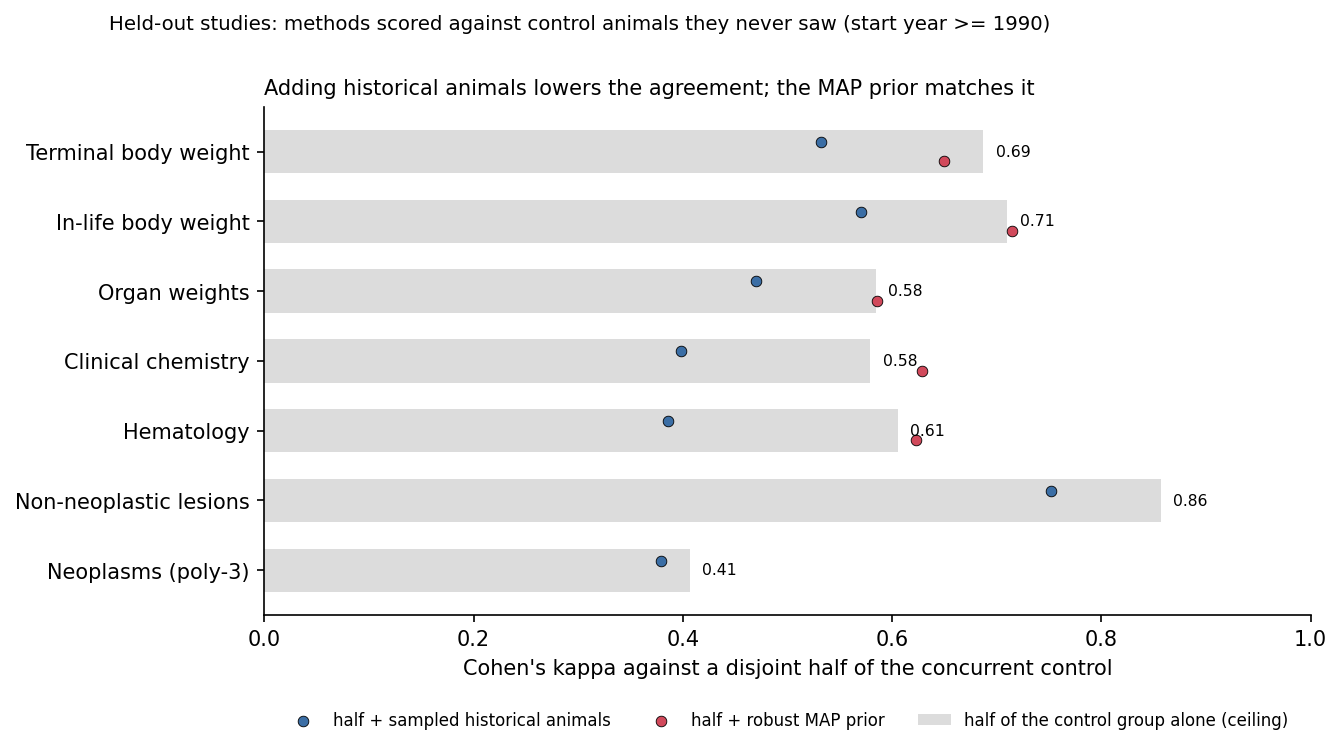
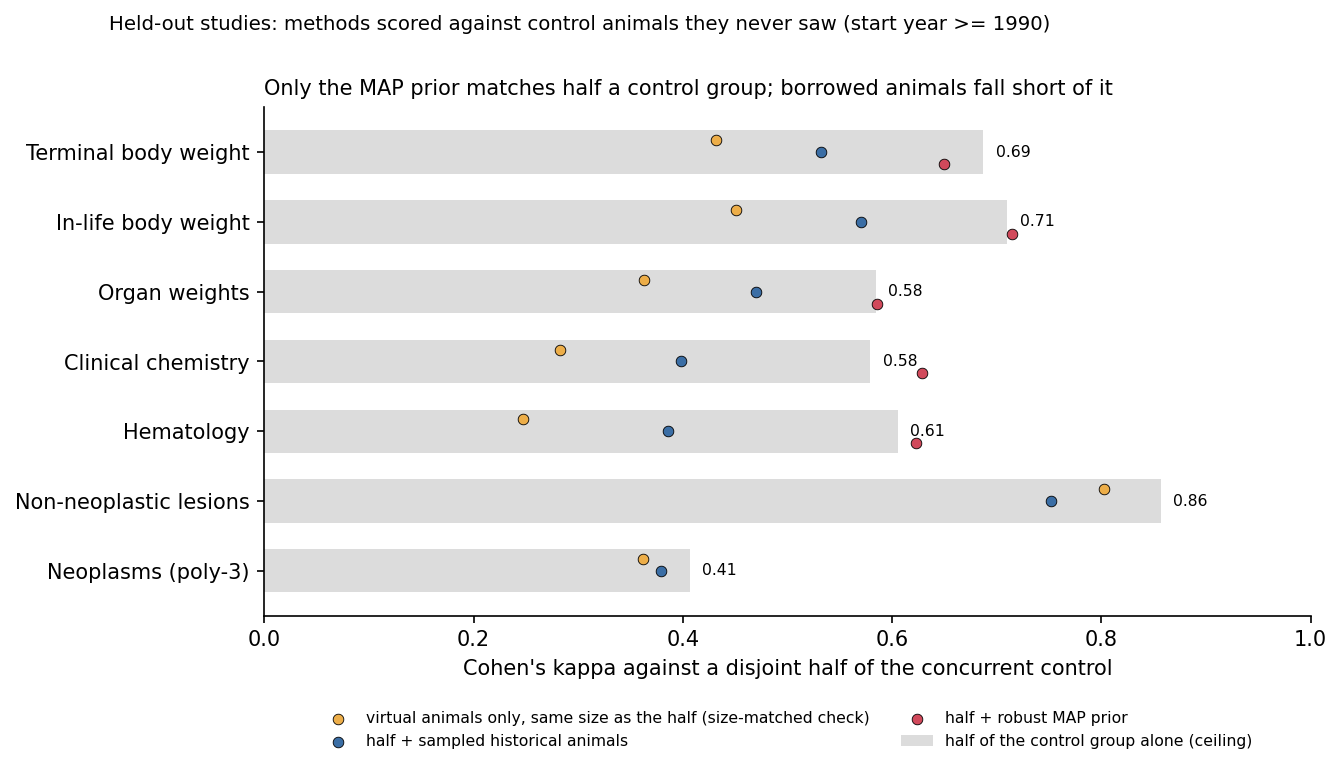
add the size-matched sensitivity analysis and state the contributions
the sensitivity analysis draws a virtual control group of n/2 animals and
scores it against the disjoint half, so the virtual group and the ceiling
have the same size and reference. per domain the share of ceiling moves by
a few points at most, so the size mismatch was not distorting the primary
result, and the full-size vcg stays primary because that is what the
literature evaluates.

the contributions section claims the application of the split-half ceiling
to vcgs, not the method, which is spearman and brown 1910 and the noise
ceiling from computational neuroscience, and credits the variance
decomposition to the iwgt report. readers are asked to open an issue if
prior use in this field exists.

diff --git a/src/vcg/methods.py b/src/vcg/methods.py
@@ -45,8 +45,9 @@ POSTHOC_PAIRS = [("half_concurrent", "baseline"), ("hierarchical", "half_concurr
                  ("half_concurrent_trend", "baseline_trend"), ("tarone", "half_concurrent_trend")]
 # Comparisons against a reference that shares no animal with the method under
 # test (mode "disjoint"): the comparator is half of the control group on its own.
-DISJOINT_PAIRS = [("baseline", "split_half"), ("hierarchical", "split_half"),
-                  ("baseline_trend", "split_half_trend"), ("tarone", "split_half_trend")]
+DISJOINT_PAIRS = [("vcg_half", "split_half"), ("baseline", "split_half"), ("hierarchical", "split_half"),
+                  ("vcg_half_trend", "split_half_trend"), ("baseline_trend", "split_half_trend"),
+                  ("tarone", "split_half_trend")]
 SETS = ("development", "holdout")
 
 
@@ -458,6 +459,9 @@ def evaluate_reliability(unit: E.Unit, set_label: str) -> list[list]:
     The other methods start from the same half A and add information to it, so
     they are measured against a reference that shares no animal with them:
 
+    * ``vcg_half``      historical animals only, as many as B has, so that the
+      comparison with ``split_half`` is exactly like for like: same sizes, same
+      reference, real control animals replaced by virtual ones,
     * ``baseline``      A plus uniformly sampled historical animals,
     * ``hierarchical``  A plus the robust MAP prior,
     * ``baseline_trend``/``tarone``/``split_half_trend`` the same for the
@@ -504,6 +508,13 @@ def evaluate_reliability(unit: E.Unit, set_label: str) -> list[list]:
                 sig = (S.dunnett_many(groups, controls).pvalue < C.ALPHA).any(axis=1)
                 rows.append(_row_paired(base, "baseline", "disjoint", sig_b, sig, n0, hv.size,
                                         len(np.unique(hg))))
+            if hv.size >= 2 * m:
+                # Same size as half B and as half A, so the comparison with
+                # ``split_half`` is exact: virtual animals in place of real ones.
+                controls = np.stack([hv[rng.choice(hv.size, m, replace=False)] for _ in range(R)])
+                sig = (S.dunnett_many(groups, controls).pvalue < C.ALPHA).any(axis=1)
+                rows.append(_row_paired(base, "vcg_half", "disjoint", sig_b, sig, n0, hv.size,
+                                        len(np.unique(hg))))
             hist_groups = [g for g in (hv[hg == s] for s in np.unique(hg)) if g.size >= 2]
             if len(hist_groups) >= C.MIN_HIST_GROUPS:
                 re, s2_hist = S.historical_random_effects(hist_groups)
@@ -547,6 +558,8 @@ def evaluate_reliability(unit: E.Unit, set_label: str) -> list[list]:
     n_virt = n0 - m
     picks = ([rng.choice(n_hist, n_virt, replace=False) for _ in range(R)]
              if n_hist >= 2 * n0 else None)
+    picks_half = ([rng.choice(n_hist, m, replace=False) for _ in range(R)]
+                  if n_hist >= 2 * m else None)
     g_labels, g_inv = (np.unique(hg, return_inverse=True) if n_hist else (np.array([]), None))
 
     def pairwise_any(aff, c_aff, c_days, c_tmax) -> bool:
@@ -570,6 +583,9 @@ def evaluate_reliability(unit: E.Unit, set_label: str) -> list[list]:
             sig = np.array([pairwise_any(aff, np.r_[aff[a], hmat[p, j]], np.r_[t_days[a], h_days[p]],
                                          np.r_[t_max[a], h_tmax[p]]) for a, p in zip(a_sets, picks)])
             rows.append(_row_paired(base, "baseline", "disjoint", sig_b, sig, n0, n_hist, g_labels.size))
+        if picks_half is not None:
+            sig = np.array([pairwise_any(aff, hmat[p, j], h_days[p], h_tmax[p]) for p in picks_half])
+            rows.append(_row_paired(base, "vcg_half", "disjoint", sig_b, sig, n0, n_hist, g_labels.size))
         if not neoplastic:
             continue
         x_t = np.array([aff[x].sum() for x in dose_rows], dtype=float)
@@ -584,6 +600,9 @@ def evaluate_reliability(unit: E.Unit, set_label: str) -> list[list]:
             sig = np.array([trend(aff[a].sum() + hmat[p, j].sum(), m + p.size)
                             for a, p in zip(a_sets, picks)])
             rows.append(_row_paired(base, "baseline_trend", "disjoint", sig_b_tr, sig, n0, n_hist, g_labels.size))
+        if picks_half is not None:
+            sig = np.array([trend(hmat[p, j].sum(), p.size) for p in picks_half])
+            rows.append(_row_paired(base, "vcg_half_trend", "disjoint", sig_b_tr, sig, n0, n_hist, g_labels.size))
         if g_labels.size >= C.MIN_HIST_GROUPS:
             x_h = np.bincount(g_inv, weights=hmat[:, j].astype(float), minlength=g_labels.size)
             n_h = np.bincount(g_inv, minlength=g_labels.size).astype(float)

diff --git a/tests/test_methods.py b/tests/test_methods.py
@@ -242,3 +242,49 @@ def test_reliability_needs_at_least_six_control_animals():
     small = unit.continuous[unit.continuous["is_control"]].head(5)
     unit.continuous = pd.concat([small, keep], ignore_index=True)
     assert MM.evaluate_reliability(unit, "holdout") == []
+
+
+def test_half_size_vcg_matches_the_ceiling_group_size():
+    """``vcg_half`` must hold exactly as many animals as the reference half, so
+    that comparing it with ``split_half`` is like for like."""
+    df = _frame(MM.evaluate_reliability(_unit(tau=1.0), "holdout"))
+    assert {"vcg_half", "split_half"} <= set(df["method"])
+    inc = _frame(MM.evaluate_reliability(_chronic_unit(), "holdout"))
+    assert {"vcg_half", "vcg_half_trend"} <= set(inc["method"])
+    # same reference draws for both, so the comparison is paired
+    both = df[df["method"].isin(["vcg_half", "split_half"])]
+    assert both.groupby("endpoint")["sig_conc"].nunique().eq(1).all()
+
+
+def test_half_size_vcg_agrees_less_than_a_real_half_when_studies_differ():
+    units = [_unit(seed=s, tau=1.0, effect=0.35) for s in range(30)]
+    df = pd.concat([_frame(MM.evaluate_reliability(u, "holdout")) for u in units], ignore_index=True)
+    ceiling = df[df["method"] == "split_half"]["agree"].mean()
+    virtual = df[df["method"] == "vcg_half"]["agree"].mean()
+    assert virtual < ceiling
+    # with no between-study variance the two are close
+    flat = pd.concat([_frame(MM.evaluate_reliability(_unit(seed=s, tau=0.0, effect=0.35), "holdout"))
+                      for s in range(30)], ignore_index=True)
+    assert flat[flat["method"] == "vcg_half"]["agree"].mean() == pytest.approx(
+        flat[flat["method"] == "split_half"]["agree"].mean(), abs=0.08)
+
+
+def test_half_size_vcg_is_size_matched_to_the_reference_half():
+    """``vcg_half`` holds exactly as many animals as the reference half, so that
+    comparing it with ``split_half`` is like for like."""
+    df = _frame(MM.evaluate_reliability(_unit(tau=1.0), "holdout"))
+    assert {"vcg_half", "split_half"} <= set(df["method"])
+    inc = _frame(MM.evaluate_reliability(_chronic_unit(), "holdout"))
+    assert {"vcg_half", "vcg_half_trend"} <= set(inc["method"])
+    both = df[df["method"].isin(["vcg_half", "split_half"])]
+    assert both.groupby("endpoint")["sig_conc"].nunique().eq(1).all()   # same reference draws
+
+
+def test_half_size_vcg_trails_a_real_half_only_when_studies_differ():
+    units = [_unit(seed=s, tau=1.0, effect=0.35) for s in range(30)]
+    df = pd.concat([_frame(MM.evaluate_reliability(u, "holdout")) for u in units], ignore_index=True)
+    assert df[df["method"] == "vcg_half"]["agree"].mean() < df[df["method"] == "split_half"]["agree"].mean()
+    flat = pd.concat([_frame(MM.evaluate_reliability(_unit(seed=s, tau=0.0, effect=0.35), "holdout"))
+                      for s in range(30)], ignore_index=True)
+    assert flat[flat["method"] == "vcg_half"]["agree"].mean() == pytest.approx(
+        flat[flat["method"] == "split_half"]["agree"].mean(), abs=0.08)

diff --git a/src/vcg/plots.py b/src/vcg/plots.py
@@ -228,15 +228,16 @@ def ceiling(vs_split: pd.DataFrame, reliability: pd.DataFrame, out: Path, set_la
     rel = rel.set_index("domain")
     t = vs_split[(vs_split["set"] == set_label) & (vs_split["domain"] != "all")]
     domains = [d for d in DOMAIN_ORDER if d in set(rel.index)]
-    methods = [m for m in ("baseline", "hierarchical") if m in set(t["method"])]
-    labels = {"baseline": "half + sampled historical animals", "hierarchical": "half + robust MAP prior"}
-    colors = {"baseline": COLORS["agree"], "hierarchical": COLORS["fp"]}
+    methods = [m for m in ("vcg_half", "baseline", "hierarchical") if m in set(t["method"])]
+    labels = {"vcg_half": "virtual animals only, same size as the half (size-matched check)",
+              "baseline": "half + sampled historical animals", "hierarchical": "half + robust MAP prior"}
+    colors = {"vcg_half": COLORS["fn"], "baseline": COLORS["agree"], "hierarchical": COLORS["fp"]}
 
     fig, ax = plt.subplots(figsize=(9, 4.4))
     y = np.arange(len(domains))
     ax.barh(y, [rel.loc[d, "kappa"] for d in domains], height=0.62, color="#dcdcdc",
             label="half of the control group alone (ceiling)")
-    for off, m in zip((-0.14, 0.14), methods):
+    for off, m in zip(np.linspace(-0.17, 0.17, len(methods)), methods):
         d = t[t["method"] == m].set_index("domain")
         xs = [d.loc[dom, "kappa_method"] if dom in d.index else np.nan for dom in domains]
         ax.scatter(xs, y + off, color=colors[m], zorder=3, s=26, edgecolor="k", linewidth=0.4, label=labels[m])
@@ -246,8 +247,8 @@ def ceiling(vs_split: pd.DataFrame, reliability: pd.DataFrame, out: Path, set_la
     ax.invert_yaxis()
     ax.set_xlim(0, 1.0)
     ax.set_xlabel("Cohen's kappa against a disjoint half of the concurrent control")
-    ax.legend(fontsize=8, frameon=False, loc="upper center", bbox_to_anchor=(0.5, -0.16), ncol=3)
-    ax.set_title("Adding historical animals lowers the agreement; the MAP prior matches it",
+    ax.legend(fontsize=7.5, frameon=False, loc="upper center", bbox_to_anchor=(0.5, -0.16), ncol=2)
+    ax.set_title("Only the MAP prior matches half a control group; borrowed animals fall short of it",
                  fontsize=10, loc="left")
     fig.suptitle(f"Held-out studies: methods scored against control animals they never saw "
                  f"(start year >= {C.CUTOFF_YEAR})", fontsize=9.5, x=0.01, ha="left", y=1.02)

diff --git a/README.md b/README.md
@@ -19,9 +19,9 @@ verdict would do about as well.**
 **That 0.52 has to be read against what two control groups can agree on at all.
 Splitting each real control group into two disjoint halves and testing the
 treated groups against each half gives kappa 0.64 on the same endpoints. That is
-the noise ceiling, and the virtual control group reaches 84% of it overall:
-91-93% for lesion and tumour incidences, but under half for clinical chemistry
-and hematology.**
+the noise ceiling, and the virtual control group reaches 84% of it overall (77%
+in a size-matched check): 91-93% for lesion and tumour incidences, but under half
+for clinical chemistry and hematology.**
 
 **Three pre-specified improvements were then tested on held-out studies
 (`docs/analysis_plan.md`). Body-weight matching and ANCOVA helped a little,
@@ -204,20 +204,20 @@ splits per study, sex and endpoint). The two halves come from the same animals,
 the same week and the same analyser, so the only thing that separates them is
 sampling noise.
 
-| Endpoint domain | Ceiling: two halves of the same control | Full VCG | Share of the ceiling reached |
-|---|---:|---:|---:|
-| Non-neoplastic lesions | 0.87 | 0.79 | 91% |
-| Neoplasms (poly-3) | 0.41 | 0.38 | 93% |
-| In-life body weight | 0.71 | 0.42 | 59% |
-| Terminal body weight | 0.66 | 0.41 | 63% |
-| Organ weights | 0.59 | 0.35 | 59% |
-| Hematology | 0.61 | 0.28 | 45% |
-| Clinical chemistry | 0.58 | 0.27 | 46% |
-| **All endpoints** | **0.64** | **0.53** | **84%** |
+| Endpoint domain | Ceiling: two halves of the same control | Full VCG | Share reached | Size-matched check |
+|---|---:|---:|---:|---:|
+| Non-neoplastic lesions | 0.87 | 0.79 | 91% | 93% |
+| Neoplasms (poly-3) | 0.41 | 0.38 | 93% | 90% |
+| Terminal body weight | 0.66 | 0.41 | 63% | 64% |
+| In-life body weight | 0.71 | 0.42 | 59% | 63% |
+| Organ weights | 0.59 | 0.35 | 59% | 61% |
+| Clinical chemistry | 0.58 | 0.27 | 46% | 48% |
+| Hematology | 0.61 | 0.28 | 45% | 40% |
+| **All endpoints** | **0.64** | **0.53** | **84%** | **77%** |
 
-Cohen's kappa, held-out studies, each column on the same 15,946 study x sex x
-endpoint units. The "all endpoints" row is dominated by neoplasms, which are
-most of the units.
+Cohen's kappa, held-out studies. The first three numeric columns are on the same
+15,946 study x sex x endpoint units; the last column is explained below. The "all
+endpoints" row is dominated by neoplasms, which are most of the units.
 
 This reframes the per-domain results above. The incidence endpoints looked good
 and are good: the virtual control group is within a tenth of the ceiling, so
@@ -229,12 +229,25 @@ Clinical chemistry and hematology are the opposite case: they reach less than
 half of their ceiling, and the missing part is the between-study variance the
 next section quantifies.
 
-One caveat on reading the ceiling. Both halves have n/2 animals, while the full
-VCG comparison is n against n. Larger groups agree better, so the true ceiling
-for a full-size comparison is somewhat higher than the numbers above, and the
-shares in the last column are therefore upper bounds. The benchmark is exact
-only for the half-size comparisons, which is where it is used as a comparator
-further down.
+### Size-matched sensitivity analysis
+
+The ceiling is measured on two halves of n/2 animals each, while the primary VCG
+comparison is n against n. Larger groups agree better, so the share column above
+is an upper bound rather than an exact figure. One extra configuration makes the
+comparison exact: draw a virtual control group of n/2 animals, with no concurrent
+animals in it, and score it against the disjoint half B. The virtual group and
+the ceiling then have the same size and the same reference, so their ratio is
+like for like. That is the last column of the table.
+
+Per domain the two columns agree within a few points and never change the
+ordering, so the size mismatch is not distorting the conclusions; the overall row
+moves more (84% to 77%) because a half-size virtual group is noisier and because
+the domain mix differs between the two sets of units. **This is a sensitivity
+analysis for reading the ceiling, not a proposed design.** A virtual control
+group of half the usual size is not what anyone would run, and the full-size
+configuration stays the primary result because it is what the VCG literature
+evaluates (Andaya et al. 2024; the VICT3R standard operating procedure annexed
+to the EMA draft opinion).
 
 ## Why do full VCGs produce false positives?
 
@@ -445,11 +458,15 @@ other half.
 | A + robust MAP prior | 4,086 | 0.66 | 0.67 | -0.010 (-0.024 to +0.003) | no clear difference |
 | A + historical animals, trend test | 8,207 | 0.50 | 0.64 | -0.135 (-0.162 to -0.112) | **hurt** |
 | A + beta-binomial prior (Tarone) | 7,506 | 0.42 | 0.64 | -0.224 (-0.263 to -0.188) | **hurt** |
+| *virtual animals only, same size as A* | 18,702 | 0.49 | 0.64 | -0.147 (-0.166 to -0.127) | **hurt** |
 
-Held-out studies; the development set gives the same four verdicts. Per domain,
-adding sampled historical animals hurts everywhere, from -0.03 for neoplasms to
--0.23 for hematology, and the robust MAP prior is within +/-0.03 of the ceiling
-in every continuous domain.
+Held-out studies; the development set gives the same verdicts. Per domain, adding
+sampled historical animals hurts everywhere, from -0.03 for neoplasms to -0.23
+for hematology, and the robust MAP prior is within +/-0.03 of the ceiling in
+every continuous domain. The last row is the size-matched configuration from the
+sensitivity analysis: replacing a real half with an equally sized virtual one
+costs 0.147 of kappa, which is the price of the borrowing on its own, with group
+size held fixed.
 
 ![Noise ceiling](results/figures/noise_ceiling.png)
 
@@ -466,6 +483,92 @@ The exception is the trend test on neoplasms, where losing half the control
 animals costs real power (sensitivity 0.78 to 0.62). Rare-event endpoints are
 where borrowing has something to offer, and they are also where Tarone's test,
 as implemented here, overshot.
+
+## Contributions
+
+A search of the virtual control group literature (ALTEX, Frontiers in
+Pharmacology and Toxicology, Toxicologic Pathology, Regulatory Toxicology and
+Pharmacology, Toxicological Sciences, the eTRANSAFE and VICT3R outputs, and the
+EMA draft qualification opinion) found no use of a split-half or noise-ceiling
+benchmark: agreement with the concurrent control is reported against an implicit
+100%, or against a conventional threshold such as 90%. `docs/literature_check.md`
+records what was searched, what each study uses instead and the closest prior
+work. Two things in this repository follow from that gap.
+
+### 1. A split-half concordance ceiling as an evaluation benchmark
+
+**Definition.** For one study, sex and endpoint with a concurrent control group
+of n animals, draw a random partition of those animals into two disjoint halves A
+and B of floor(n/2) animals each. Run the same treated-versus-control test twice,
+once with A as the control and once with B, and record whether the two
+conclusions agree at the chosen alpha. Repeat over random partitions (20 here)
+and aggregate across endpoints with the same statistics used for the method under
+test. The result is the agreement that two control groups from the same study,
+the same shipment, the same week and the same analyser reach, so it contains
+sampling noise and nothing else.
+
+**Assumptions.** The halves must be disjoint, or the benchmark is inflated by
+shared animals, which is exactly the error the earlier version of this analysis
+made and the disjoint-reference section corrects. Any method compared against the
+ceiling must use a control group of the same size and be scored against the same
+half, or the comparison confounds group size with method.
+
+**What it buys.** It converts "the virtual control group agrees with the
+concurrent control for 78% of endpoints" into "it reaches 84% of what is
+attainable", and it separates two very different situations that raw agreement
+cannot. Tumour incidences look mediocre on raw agreement (kappa 0.38) and are in
+fact close to the limit (93% of a ceiling of 0.41), because the poly-3 comparison
+on 50 animals is itself unstable. Clinical chemistry looks similar on raw
+agreement (0.27) but reaches under half of a much higher ceiling, so there the
+method, not the test, is the binding constraint.
+
+**Limitations.** The ceiling is an estimate with its own sampling error, and at
+n/2 it is measured on smaller groups than a full-size VCG uses, which the
+size-matched analysis above addresses. It bounds agreement with one statistical
+test at one alpha, not scientific validity: a method could agree less and be
+closer to the truth. It takes the concurrent control as the reference, so it
+says nothing about whether that reference is right. And it is a ceiling for
+*concordance studies*, which is the design this field uses; it does not speak to
+designs that validate against a known effect.
+
+**Proposed as a reporting standard.** A virtual control group study that reports
+agreement should report the split-half ceiling on the same endpoints, and the
+share of it reached, per endpoint domain. It costs one extra resampling loop over
+data the study already has, it needs no historical data, and without it an
+agreement figure cannot be read: 80% agreement is poor for an endpoint whose
+ceiling is 0.95 and close to optimal for one whose ceiling is 0.82.
+
+The benchmark itself is old. Split-half reliability goes back to Spearman and
+Brown in 1910, and the noise ceiling as an upper bound on attainable model-data
+agreement is routine in computational neuroscience, where split-half and
+resampling estimators are compared directly (Nili et al. 2014; Lage-Castellanos
+et al. 2019). The contribution claimed here is its application to virtual control
+groups, not the method. If it has been used in this field before, please open an
+issue and the claim will be corrected.
+
+### 2. A between-study variance decomposition that predicts where VCGs fail
+
+For each endpoint, within strata of studies that match each other on the criteria
+a VCG would use, the variance of control animals is split into a within-study
+part and a between-study part. The second part is what a virtual control group
+cannot reproduce, and it is turned into a predicted false positive rate in closed
+form, separately for sampling individual animals and for borrowing whole groups.
+
+The decomposition is not itself new. The IWGT report on historical negative
+control data does the same for genetic toxicology, separating animal from study
+variance and recommending that historical controls be used only where animal
+factors dominate (Dertinger et al. 2023). What is added here is the link to an
+error rate: the between-study share predicts the false positive rate of a VCG
+comparison, ranks the endpoint domains in the order actually observed, and
+predicted in advance that whole-group sampling would be worse than sampling
+individuals, which the pre-specified comparison then confirmed. The prediction is
+approximate and runs slightly below the observed rates (0.16-0.29 predicted
+against 0.22-0.33 observed), so it is a design guide, not a calibration.
+
+Both contributions are demonstrated on public NTP data with a reproducible
+pipeline, which is itself the smaller third point: the VCG evaluations published
+so far rest on proprietary databases (eTOX, Genentech, Bayer, Roche), and none of
+them can be re-run by a reader.
 
 ## How to reproduce
 
@@ -552,8 +655,9 @@ tests/       pytest suite: statistics against published and library reference
 * **The ceiling is measured at half size.** Both halves of the split have n/2
   animals, so the benchmark is exact for the half-size comparisons and
   conservative for the full-size ones: two independent full-size control groups
-  would agree better than two halves do. A full VCG that reaches the half-size
-  ceiling has not been shown to be noise-limited.
+  would agree better than two halves do. The size-matched sensitivity analysis
+  shows the per-domain shares move by a few points at most, but a full VCG that
+  reaches the half-size ceiling has still not been shown to be noise-limited.
 * **Agreement is not accuracy.** Every verdict in this README is about agreeing
   with the concurrent control. A method that agrees less could in principle be
   closer to the truth, and the hierarchical full VCG is the clearest case: it is
@@ -603,6 +707,40 @@ consulted but not used because it publishes group-level summaries, not animals.
   https://doi.org/10.1111/biom.12242 (the robust prior used for partial VCGs)
 * Tarone RE. The use of historical control information in testing for a trend in
   proportions. *Biometrics* 1982;38(1):215-220. https://doi.org/10.2307/2530304
+* Wright PSR, Smith GF, Briggs KA, Thomas R, Maglennon G, et al. Retrospective
+  analysis of the potential use of virtual control groups in preclinical toxicity
+  assessment using the eTOX database. *Regul Toxicol Pharmacol* 2023;138:105309.
+  https://doi.org/10.1016/j.yrtph.2022.105309
+* Duchateau-Nguyen G, Piraino M, Draganov DI, Maliver P, Muster W, et al.
+  Analysis of rat toxicology studies: statistical agreement between virtual and
+  concurrent controls in detecting treatment effects on liver enzymes.
+  *Front Pharmacol* 2026;17:1704002. https://doi.org/10.3389/fphar.2026.1704002
+* Kim J, Kim Y, Park D, Kim SK, Kang MG. A practical approach for regulatory
+  acceptance of virtual control groups: vehicle pooling and biological relevance
+  assessment. *Front Toxicol* 2026;8:1888158.
+  https://doi.org/10.3389/ftox.2026.1888158
+* Steger-Hartmann T, et al. Virtual control groups in non-clinical toxicology: a
+  replicability challenge. *ALTEX* 2025. https://doi.org/10.14573/altex.2503061
+* Dertinger SD, Li D, Beevers C, Douglas GR, Heflich RH, et al. Assessing the
+  quality and making appropriate use of historical negative control data: a
+  report of the International Workshop on Genotoxicity Testing.
+  *Environ Mol Mutagen* 2023;66:144-165. https://doi.org/10.1002/em.22541
+  (variance components of historical controls, for control limits in genetic
+  toxicology)
+
+Methodological lineage of the ceiling, from outside toxicology:
+
+* Spearman C. Correlation calculated from faulty data. *Br J Psychol*
+  1910;3:271-295; Brown W. Some experimental results in the correlation of mental
+  abilities. *Br J Psychol* 1910;3:296-322. (split-half reliability)
+* Nili H, Wingfield C, Walther A, Su L, Marslen-Wilson W, Kriegeskorte N. A
+  toolbox for representational similarity analysis. *PLoS Comput Biol*
+  2014;10(4):e1003553. https://doi.org/10.1371/journal.pcbi.1003553 (noise ceiling
+  as an upper bound on attainable model-data agreement)
+* Lage-Castellanos A, Valente G, Formisano E, De Martino F. Methods for computing
+  the maximum performance of computational models of fMRI responses. *PLoS Comput
+  Biol* 2019;15(3):e1006397. https://doi.org/10.1371/journal.pcbi.1006397
+  (split-half versus resampling estimators of the ceiling)
 * Bailer AJ, Portier CJ. Effects of treatment-induced mortality and tumor-induced
   mortality on tests for carcinogenicity in small samples. *Biometrics*
   1988;44(2):417-431. https://doi.org/10.2307/2531856 (poly-k test)
